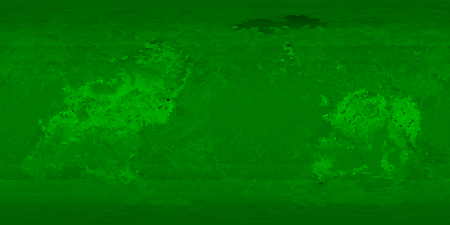
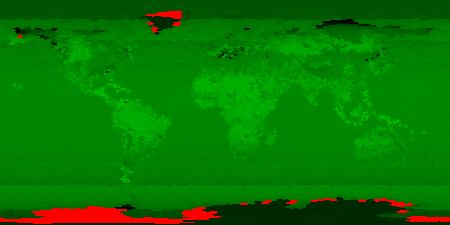
change polar plankton dormancy & filter feeder limits

diff --git a/planet/src/test/kotlin/dev/biserman/planet/planet/ecology/v2/EcologyRuntimeTest.kt b/planet/src/test/kotlin/dev/biserman/planet/planet/ecology/v2/EcologyRuntimeTest.kt
@@ -144,6 +144,76 @@ class EcologyRuntimeTest {
     }
 
     @Test
+    fun `polar plankton overwinter as a small resting stock and regrow below tropical biomass`() {
+        val ecology = EcologyCompiler.compile(listOf(InvariantSpecies.PLANKTON))
+        val species = ecology.species.single()
+        val tropicalEnvironment = oceanEnvironment(temperatureC = 25.0)
+        val niche = NicheSelection.choose(species, ecology, tropicalEnvironment)
+        val tropical = TileCommunity().also {
+            it.add(species.index, niche, activeBiomass = 1.0e10)
+        }
+        val polar = TileCommunity().also {
+            it.add(species.index, niche, activeBiomass = 1.0e10)
+        }
+        val polarYear = listOf(
+            polarOceanEnvironment(
+                temperatureC = -8.0,
+                insolation = 0.0,
+                usefulSunlightReachesWater = false,
+            ),
+            polarOceanEnvironment(
+                temperatureC = -5.0,
+                insolation = 0.01,
+                usefulSunlightReachesWater = false,
+            ),
+            polarOceanEnvironment(
+                temperatureC = 2.0,
+                insolation = 0.55,
+                usefulSunlightReachesWater = true,
+            ),
+            polarOceanEnvironment(
+                temperatureC = 7.0,
+                insolation = 0.95,
+                usefulSunlightReachesWater = true,
+            ),
+        )
+        val tropicalRuntime = EcologyRuntime(ecology)
+        val polarRuntime = EcologyRuntime(ecology)
+        var lateWinterBiomass = 0.0
+        var lateSummerBiomass = 0.0
+
+        repeat(400) { year ->
+            repeat(4) {
+                tropicalRuntime.advanceSeason(tropical, tropicalEnvironment)
+            }
+            polarYear.forEachIndexed { season, environment ->
+                val beforeSeason = polar.totalBiomass()
+                polarRuntime.advanceSeason(polar, environment)
+                assertTrue(
+                    polar.find(species.index) >= 0,
+                    "Polar plankton went locally extinct in year $year season $season " +
+                        "from ${"%.3e".format(beforeSeason)} kg",
+                )
+                if (season == 1) lateWinterBiomass = polar.totalBiomass()
+                if (season == 3) lateSummerBiomass = polar.totalBiomass()
+            }
+        }
+
+        val tropicalBiomass = tropical.totalBiomass()
+        assertTrue(lateWinterBiomass > 0.0)
+        assertTrue(
+            lateSummerBiomass > lateWinterBiomass * 2.0,
+            "winter=${"%.3e".format(lateWinterBiomass)} " +
+                "summer=${"%.3e".format(lateSummerBiomass)}",
+        )
+        assertTrue(
+            lateSummerBiomass < tropicalBiomass * 0.25,
+            "polar=${"%.3e".format(lateSummerBiomass)} " +
+                "tropical=${"%.3e".format(tropicalBiomass)}",
+        )
+    }
+
+    @Test
     fun `reef builders emit cover only from aquatic habitat`() {
         val species = aquaticProducer(extraTraits = listOf(CommonTrait.REEF_BUILDING))
         val ecology = EcologyCompiler.compile(listOf(species))
@@ -549,5 +619,22 @@ class EcologyRuntimeTest {
             resources = FunctionalResources(
                 marineSnow = 0.25,
             ),
+        )
+
+    private fun polarOceanEnvironment(
+        temperatureC: Double,
+        insolation: Double,
+        usefulSunlightReachesWater: Boolean,
+    ) =
+        SeasonalCellEnvironment.create(
+            areaKm2 = 40_000.0,
+            temperatureC = temperatureC,
+            annualAverageTemperatureC = -1.0,
+            insolation = insolation,
+            precipitationMm = 30.0,
+            isLand = false,
+            waterDepthM = 1_000.0,
+            usefulSunlightReachesWater = usefulSunlightReachesWater,
+            permanentSeaIce = true,
         )
 }

diff --git a/planet/src/test/kotlin/dev/biserman/planet/planet/ecology/v2/EarthSpeciesCatalogTest.kt b/planet/src/test/kotlin/dev/biserman/planet/planet/ecology/v2/EarthSpeciesCatalogTest.kt
@@ -6,6 +6,31 @@ import kotlin.test.assertTrue
 
 class EarthSpeciesCatalogTest {
     @Test
+    fun `sand burrowing trades wet climate tolerance for desert refuge`() {
+        listOf("fennec-fox", "jerboa", "kangaroo-rat").forEach { speciesId ->
+            val definition = EarthSpeciesCatalog.ALL.single { it.id == speciesId }
+            assertTrue(
+                CommonTrait.SAND_BURROWING in definition.traits,
+                "$speciesId should be specialized for sandy desert burrows",
+            )
+        }
+        val fennec = EarthSpeciesCatalog.ALL.single { it.id == "fennec-fox" }
+        val withoutSandBurrowing = fennec.copy(
+            id = "fennec-without-sand-burrowing",
+            traits = fennec.traits - CommonTrait.SAND_BURROWING,
+        )
+        val compiled = EcologyCompiler.compile(listOf(fennec, withoutSandBurrowing))
+        val adapted = compiled.species[0]
+        val baseline = compiled.species[1]
+
+        assertTrue(adapted.temperatureOuterHigh > baseline.temperatureOuterHigh)
+        assertTrue(adapted.minimumWater < baseline.minimumWater)
+        assertTrue(adapted.optimalMaximumWater < baseline.optimalMaximumWater)
+        assertTrue(adapted.maximumWater < baseline.maximumWater)
+        assertTrue(adapted.maintenanceDemand > baseline.maintenanceDemand)
+    }
+
+    @Test
     fun `regional biodiversity additions cover six underrepresented environments`() {
         val definitions = EarthSpeciesCatalog.ALL.associateBy { it.id }
         val regionalSpecies = mapOf(
@@ -38,52 +63,6 @@ class EarthSpeciesCatalogTest {
                 },
                 "$speciesId lacks an explicit cold-climate adaptation",
             )
-        }
-    }
-
-    @Test
-    fun `high plateau species use evidence-supported water coat and oxygen adaptations`() {
-        val definitions = EarthSpeciesCatalog.ALL.associateBy { it.id }
-
-        assertTrue(
-            CommonTrait.FOOD_DERIVED_WATER in
-                definitions.getValue("himalayan-pika").traits,
-        )
-        assertTrue(
-            CommonTrait.INSULATED_BURROW_REFUGE in
-                definitions.getValue("himalayan-pika").traits,
-        )
-        assertTrue(
-            CommonTrait.WOOLLY_UNDERCOAT in
-                definitions.getValue("snow-leopard").traits,
-        )
-        assertTrue(
-            CommonTrait.FOOD_DERIVED_WATER in
-                definitions.getValue("snow-leopard").traits,
-        )
-        assertTrue(
-            CommonTrait.ENLARGED_CARDIOPULMONARY_SYSTEM in
-                definitions.getValue("wild-yak").traits,
-        )
-        assertTrue(
-            CommonTrait.SNOW_AND_ICE_LICKING in
-                definitions.getValue("wild-yak").traits,
-        )
-        assertTrue(
-            CommonTrait.HIGH_AFFINITY_HEMOGLOBIN in
-                definitions.getValue("vicuna").traits,
-        )
-        listOf("wild-yak", "himalayan-pika", "mountain-goat").forEach { speciesId ->
-            assertTrue(
-                CommonTrait.SEASONAL_WINTER_COAT in definitions.getValue(speciesId).traits,
-                speciesId,
-            )
-        }
-
-        val ecology = EcologyCompiler.compile(EarthSpeciesCatalog.ALL)
-        listOf("wild-yak", "himalayan-pika", "snow-leopard").forEach { speciesId ->
-            val species = ecology.species.single { it.id == speciesId }
-            assertTrue(species.elevationToleranceShiftM >= 2_500.0, speciesId)
         }
     }
 

diff --git a/planet/src/main/kotlin/dev/biserman/planet/planet/ecology/v2/EcologyCompiler.kt b/planet/src/main/kotlin/dev/biserman/planet/planet/ecology/v2/EcologyCompiler.kt
@@ -38,6 +38,8 @@ class CompiledSpecies(
     val nicheCompetitionSensitivity: Double,
     val dormancyKind: DormancyKind,
     val dormantSurvival: Double,
+    val dormantEntryBiomassRetention: Double,
+    val dormantReactivationMultiplier: Double,
     val dispersalKind: DispersalKind,
     val captureAbility: Double,
     val defense: Double,
@@ -214,6 +216,8 @@ object EcologyCompiler {
         var nicheCompetitionSensitivity = 1.0
         var dormancyKind = DormancyKind.NONE
         var dormantSurvival = 0.0
+        var dormantEntryBiomassRetention = 1.0
+        var dormantReactivationMultiplier = 1.0
         var dispersalKind = DispersalKind.NONE
         var reproductionMultiplier = 1.0
         val maintenanceCost = definition.traits.sumOf { trait ->
@@ -294,6 +298,10 @@ object EcologyCompiler {
                     dormancyKind = effect.kind
                     dormantSurvival = effect.survivalPerSeason
                 }
+                is TraitEffect.DormantEntryBiomassRetention ->
+                    dormantEntryBiomassRetention *= effect.fraction
+                is TraitEffect.DormantReactivationMultiplier ->
+                    dormantReactivationMultiplier *= effect.multiplier
                 is TraitEffect.Dispersal -> {
                     if (effect.kind.rangeClass > dispersalKind.rangeClass) {
                         dispersalKind = effect.kind
@@ -442,6 +450,9 @@ object EcologyCompiler {
             nicheCompetitionSensitivity = nicheCompetitionSensitivity.coerceIn(0.0, 1.0),
             dormancyKind = dormancyKind,
             dormantSurvival = dormantSurvival,
+            dormantEntryBiomassRetention =
+                dormantEntryBiomassRetention.coerceIn(0.0, 1.0),
+            dormantReactivationMultiplier = dormantReactivationMultiplier,
             dispersalKind = dispersalKind,
             captureAbility = captureAbility.coerceIn(0.05, 1.5),
             defense = defense.coerceIn(0.0, 1.5),

diff --git a/planet/src/main/kotlin/dev/biserman/planet/planet/ecology/v2/EcologyTraits.kt b/planet/src/main/kotlin/dev/biserman/planet/planet/ecology/v2/EcologyTraits.kt
@@ -97,6 +97,17 @@ enum class CommonTrait(
         ),
         invariantOnly = true,
     ),
+    MICROSCOPIC_RESTING_STAGES(
+        "microscopic resting stages",
+        "A small fraction of the active population forms durable cysts, spores, or resting eggs that preserve the lineage through dark or otherwise unproductive seasons.",
+        listOf(
+            TraitEffect.DormantEntryBiomassRetention(0.10),
+            TraitEffect.DormantReactivationMultiplier(10.00),
+            TraitEffect.ReproductionMultiplier(1.03),
+            TraitEffect.MaintenanceCost(0.02),
+        ),
+        invariantOnly = true,
+    ),
     THAW_DEPENDENT_GROWTH(
         "thaw-dependent growth",
         "Living ground cover can overwinter below freezing, but requires liquid water and a thawed growing season to renew its tissues.",
@@ -396,6 +407,19 @@ enum class CommonTrait(
             TraitEffect.TemperatureTolerance(colderC = 3.0, hotterC = 3.0),
             TraitEffect.WaterRequirement(-0.06),
             TraitEffect.MaintenanceCost(0.10),
+        ),
+    ),
+    SAND_BURROWING(
+        "sand burrowing",
+        "Broad feet, digging behavior, and maintainable dens specialized for loose desert sand, providing a cooler and more humid refuge from exposed conditions.",
+        listOf(
+            TraitEffect.TemperatureTolerance(hotterC = 4.0),
+            TraitEffect.WaterRequirement(-0.06),
+            TraitEffect.MaximumWaterTolerance(
+                optimalMaximumChange = -0.25,
+                absoluteMaximumChange = -0.10,
+            ),
+            TraitEffect.MaintenanceCost(0.09),
         ),
     ),
     INSULATED_BURROW_REFUGE(

diff --git a/planet/src/main/kotlin/dev/biserman/planet/planet/ecology/v2/EcologyRuntime.kt b/planet/src/main/kotlin/dev/biserman/planet/planet/ecology/v2/EcologyRuntime.kt
@@ -364,11 +364,23 @@ class EcologyRuntime(
             ) {
                 val entering = active * config.dormantEntryFraction
                 active -= entering
-                dormant += entering
+                // Resting eggs, spores, and cysts may preserve a lineage using
+                // much less living biomass than the active population that
+                // produced them. Whole-body dormancy retains the default 1:1
+                // transfer, while microscopic resting stages can opt into a
+                // smaller retained fraction.
+                dormant += entering * species.dormantEntryBiomassRetention
             } else if (populationFitness > config.dormantExitFitness && dormant > 0.0) {
                 val exiting = dormant * config.dormantExitFraction
                 dormant -= exiting
-                active += exiting
+                val carryingBiomass =
+                    EcologyBiomass.carryingCapacityKg(species, niche, environment)
+                val ordinaryReactivation = exiting
+                val bloomGrowth = min(
+                    exiting * (species.dormantReactivationMultiplier - 1.0),
+                    max(0.0, carryingBiomass - active - ordinaryReactivation),
+                )
+                active += ordinaryReactivation + bloomGrowth
             }
             effectiveActive[populationIndex] = active
             nextDormant[populationIndex] = dormant

diff --git a/planet/src/main/kotlin/dev/biserman/planet/planet/ecology/v2/EarthSpeciesCatalog.kt b/planet/src/main/kotlin/dev/biserman/planet/planet/ecology/v2/EarthSpeciesCatalog.kt
@@ -637,7 +637,21 @@ object EarthSpeciesCatalog {
             CommonTrait.AMBUSH_MUSCULATURE,
             CommonTrait.MASSIVE_EARS,
             CommonTrait.PREY_DERIVED_WATER,
+            CommonTrait.SAND_BURROWING,
             CommonTrait.DRY_BURROW_NEST,
+            camouflage = BiologicalColor.PALE
+        ),
+        animal(
+            "jerboa",
+            "Jerboa",
+            SizeClass.TINY,
+            CommonTrait.HETEROTHERMY,
+            CommonTrait.TERRESTRIAL_LOCOMOTION,
+            CommonTrait.GRAZING_MOUTHPARTS,
+            CommonTrait.FOOD_DERIVED_WATER,
+            CommonTrait.SAND_BURROWING,
+            CommonTrait.DRY_BURROW_NEST,
+            CommonTrait.CACHED_FOOD,
             camouflage = BiologicalColor.PALE
         ),
         animal(
@@ -648,6 +662,7 @@ object EarthSpeciesCatalog {
             CommonTrait.TERRESTRIAL_LOCOMOTION,
             CommonTrait.GRAZING_MOUTHPARTS,
             CommonTrait.FOOD_DERIVED_WATER,
+            CommonTrait.SAND_BURROWING,
             CommonTrait.DRY_BURROW_NEST,
             CommonTrait.CACHED_FOOD,
             camouflage = BiologicalColor.PALE

diff --git a/planet/src/test/kotlin/dev/biserman/planet/planet/ecology/v2/EcologyCompilerTest.kt b/planet/src/test/kotlin/dev/biserman/planet/planet/ecology/v2/EcologyCompilerTest.kt
@@ -316,6 +316,21 @@ class EcologyCompilerTest {
         assertTrue(ecology.species.all { it.kind == SpeciesKind.INVARIANT })
         assertTrue(ecology.species.all { it.dormancyKind == DormancyKind.PROPAGULE })
         assertTrue(ecology.species.all { it.nicheCompetitionSensitivity < 0.20 })
+        assertEquals(
+            0.10,
+            ecology.species.single { it.id == InvariantSpecies.PLANKTON.id }
+                .dormantEntryBiomassRetention,
+        )
+        assertEquals(
+            10.0,
+            ecology.species.single { it.id == InvariantSpecies.PLANKTON.id }
+                .dormantReactivationMultiplier,
+        )
+        assertTrue(
+            ecology.species
+                .filterNot { it.id == InvariantSpecies.PLANKTON.id }
+                .all { it.dormantEntryBiomassRetention == 1.0 },
+        )
     }
 
     @Test

diff --git a/planet/src/main/kotlin/dev/biserman/planet/planet/ecology/v2/EcologyModel.kt b/planet/src/main/kotlin/dev/biserman/planet/planet/ecology/v2/EcologyModel.kt
@@ -143,6 +143,16 @@ sealed interface TraitEffect {
     data class ReserveCapacity(val change: Double) : TraitEffect
     data class NicheCompetitionSensitivity(val multiplier: Double) : TraitEffect
     data class Dormancy(val kind: DormancyKind, val survivalPerSeason: Double) : TraitEffect
+    data class DormantEntryBiomassRetention(val fraction: Double) : TraitEffect {
+        init {
+            require(fraction in 0.0..1.0)
+        }
+    }
+    data class DormantReactivationMultiplier(val multiplier: Double) : TraitEffect {
+        init {
+            require(multiplier >= 1.0)
+        }
+    }
     data class Dispersal(val kind: DispersalKind) : TraitEffect
     data class ReproductionMultiplier(val multiplier: Double) : TraitEffect
     data object FreshwaterOsmoregulation : TraitEffect

diff --git a/planet/src/test/kotlin/dev/biserman/planet/planet/ecology/v2/EcologyWorldEcosystemHealthTest.kt b/planet/src/test/kotlin/dev/biserman/planet/planet/ecology/v2/EcologyWorldEcosystemHealthTest.kt
@@ -267,7 +267,14 @@ class EcologyWorldEcosystemHealthTest {
             totals[season] = community.totalBiomass()
         }
 
-        val tail = totals.copyOfRange(SIMULATION_SEASONS * 4 / 5, SIMULATION_SEASONS)
+        // Stability is year-to-year persistence, not the absence of ordinary
+        // seasonality. Comparing raw seasons incorrectly classifies a stable
+        // polar plankton bloom as an oscillating ecosystem.
+        val tail = totals
+            .copyOfRange(SIMULATION_SEASONS * 4 / 5, SIMULATION_SEASONS)
+            .asList()
+            .chunked(4)
+            .map { year -> year.average() }
         val mean = tail.average()
         val cv =
             if (mean > 0.0) sqrt(tail.sumOf { (it - mean) * (it - mean) } / tail.size) / mean

diff --git a/planet/src/main/kotlin/dev/biserman/planet/planet/ecology/v2/InvariantSpecies.kt b/planet/src/main/kotlin/dev/biserman/planet/planet/ecology/v2/InvariantSpecies.kt
@@ -62,6 +62,7 @@ object InvariantSpecies {
         traits = listOf(
             CommonTrait.TEMPERATE_BIOCHEMISTRY,
             CommonTrait.INVARIANT_RESISTANCE,
+            CommonTrait.MICROSCOPIC_RESTING_STAGES,
             CommonTrait.ECTOTHERMY,
             CommonTrait.BUOYANCY_BLADDER,
             CommonTrait.FRESHWATER_OSMOREGULATION,

diff --git a/planet/src/main/kotlin/dev/biserman/planet/planet/ecology/v2/EcologyBiomass.kt b/planet/src/main/kotlin/dev/biserman/planet/planet/ecology/v2/EcologyBiomass.kt
@@ -62,8 +62,8 @@ object EcologyBiomass {
         SizeClass.SMALL to 0.02,
         SizeClass.MEDIUM to 0.01,
         SizeClass.LARGE to 0.003,
-        SizeClass.HUGE to 0.0005,
-        SizeClass.COLOSSAL to 0.00025,
+        SizeClass.HUGE to 0.003,
+        SizeClass.COLOSSAL to 0.003,
     )
 
     private val terrestrialProducerDensity =
